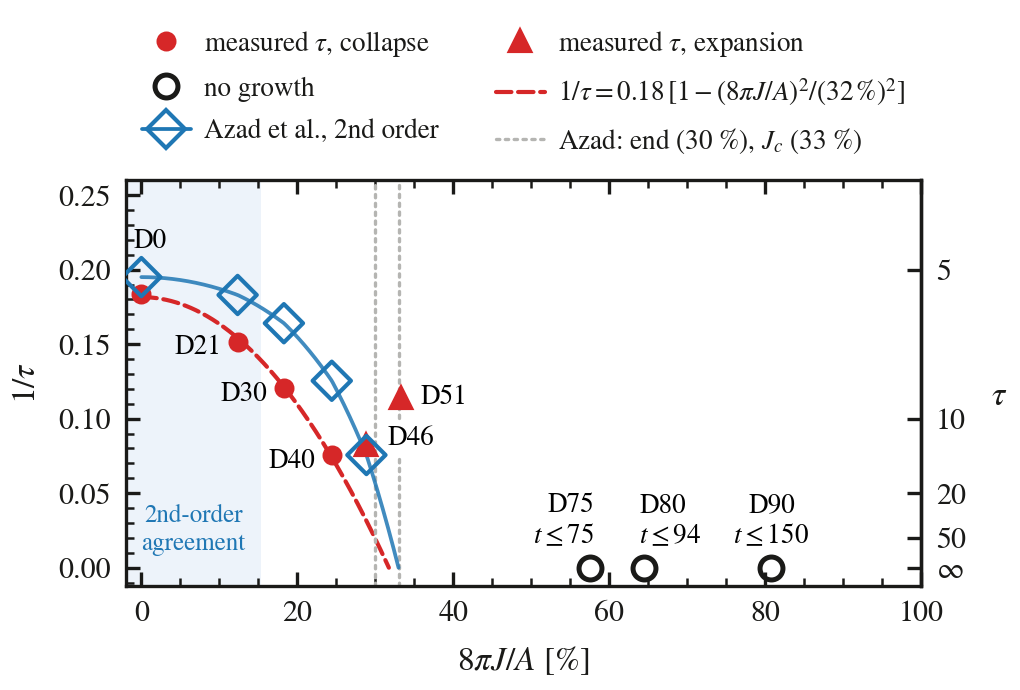
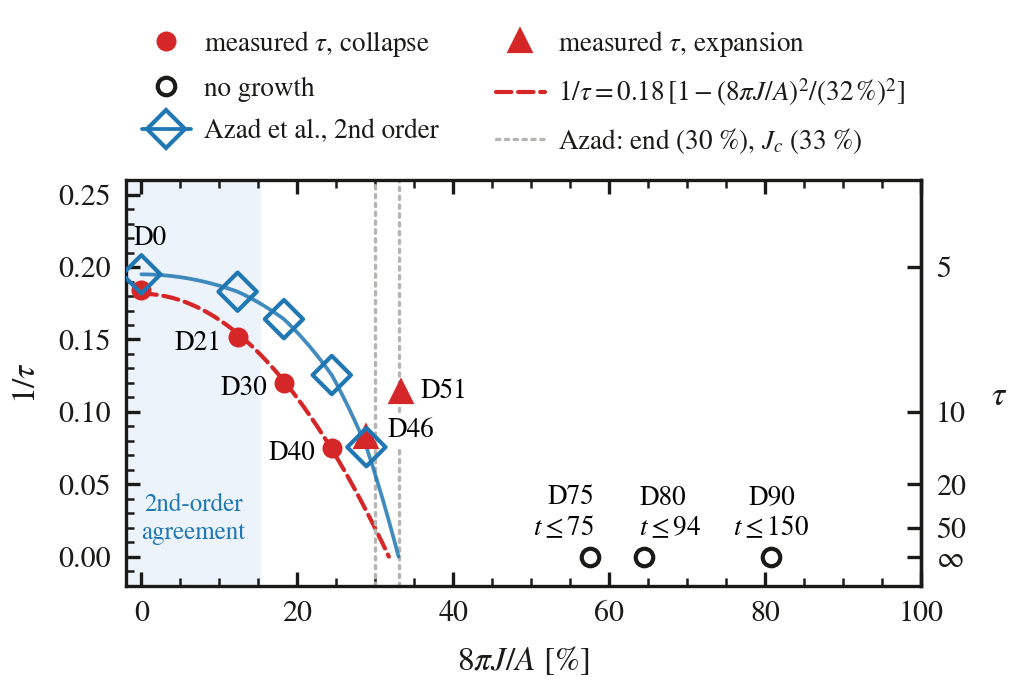
Spinning instability curve: smaller no-growth circles, off the ticks
The open circles at zero (ms 5.5) ran into the inward x ticks: the major
80 through D90, the minor 65 through D80. They now draw at ms 4.2 (key
too) and the frame starts at -0.02, so each clears the tallest tick;
their tags follow them down. Label audit clean.

diff --git a/grteclyn-wrapper/src/grteclyn_wrapper/visualisation/spinning_wormhole/plot_instability_curve.py b/grteclyn-wrapper/src/grteclyn_wrapper/visualisation/spinning_wormhole/plot_instability_curve.py
@@ -120,9 +120,9 @@ TAG_SIDES = {
     "D46": (5, 1.5, "left", "center"),
     "D51": (4.5, 0, "left", "center"),
     # the stable rungs sit 12 pt apart: D75's tag hangs left, D80's right
-    "D75": (1, 4.5, "right", "bottom"),
-    "D80": (-1, 4.5, "left", "bottom"),
-    "D90": (0, 4.5, "center", "bottom"),
+    "D75": (1, 3.8, "right", "bottom"),
+    "D80": (-1, 3.8, "left", "bottom"),
+    "D90": (0, 3.8, "center", "bottom"),
 }
 SPIN_BLUE, SPIN_RED = "#1f77b4", "#d62728"
 PALETTES = {
@@ -336,14 +336,16 @@ def draw(points, pal, jc_frac) -> None:
                         textcoords="offset points", xytext=(dx, dy), fontsize=6.5,
                         ha=ha, va=va)
         else:
-            ax.plot(p["frac"], 0.0, "o", ms=5.5, mfc="none", mec=pal["stable"],
-                    mew=1.2, zorder=4)
-            dx, dy, ha, va = TAG_SIDES.get(p["label"], (0, 4.5, "center", "bottom"))
+            ax.plot(p["frac"], 0.0, "o", ms=4.2, mfc="none", mec=pal["stable"],
+                    mew=1.0, zorder=4)
+            dx, dy, ha, va = TAG_SIDES.get(p["label"], (0, 3.8, "center", "bottom"))
             ax.annotate(f"{p['label']}\n$t\\leq{p['t_end']:.0f}$",
                         (p["frac"], 0.0), textcoords="offset points",
                         xytext=(dx, dy), fontsize=6.5, ha=ha, va=va, multialignment=ha)
     ax.set_xlim(-2.0, 100.0)   # the static rung sits at 0: keep its marker whole
-    ax.set_ylim(-0.012, 0.26)
+    # 2026-10-21: the open circles at zero sit clear of the inward x ticks (80 and
+    # the minor 65 ran into D90 and D80)
+    ax.set_ylim(-0.02, 0.26)
     ax.set_xlabel(r"$8\pi J/A$ [%]")
     ax.set_ylabel(r"$1/\tau$")
     # The same scale relabelled in tau on the right edge: one axis, two units.
@@ -363,8 +365,8 @@ def draw(points, pal, jc_frac) -> None:
                                       color=pal["measured"]),
                         "measured $\\tau$, expansion"))
     if any(p["stable"] for p in drawn):
-        entries.append((mlines.Line2D([], [], marker="o", ls="none", ms=5.5, mfc="none",
-                                      mec=pal["stable"], mew=1.2),
+        entries.append((mlines.Line2D([], [], marker="o", ls="none", ms=4.2, mfc="none",
+                                      mec=pal["stable"], mew=1.0),
                         "no growth"))
     if fit is not None:
         # 2026-10-21: the fit written out, a - b x^2 as a [1 - x^2/x0^2], so the
